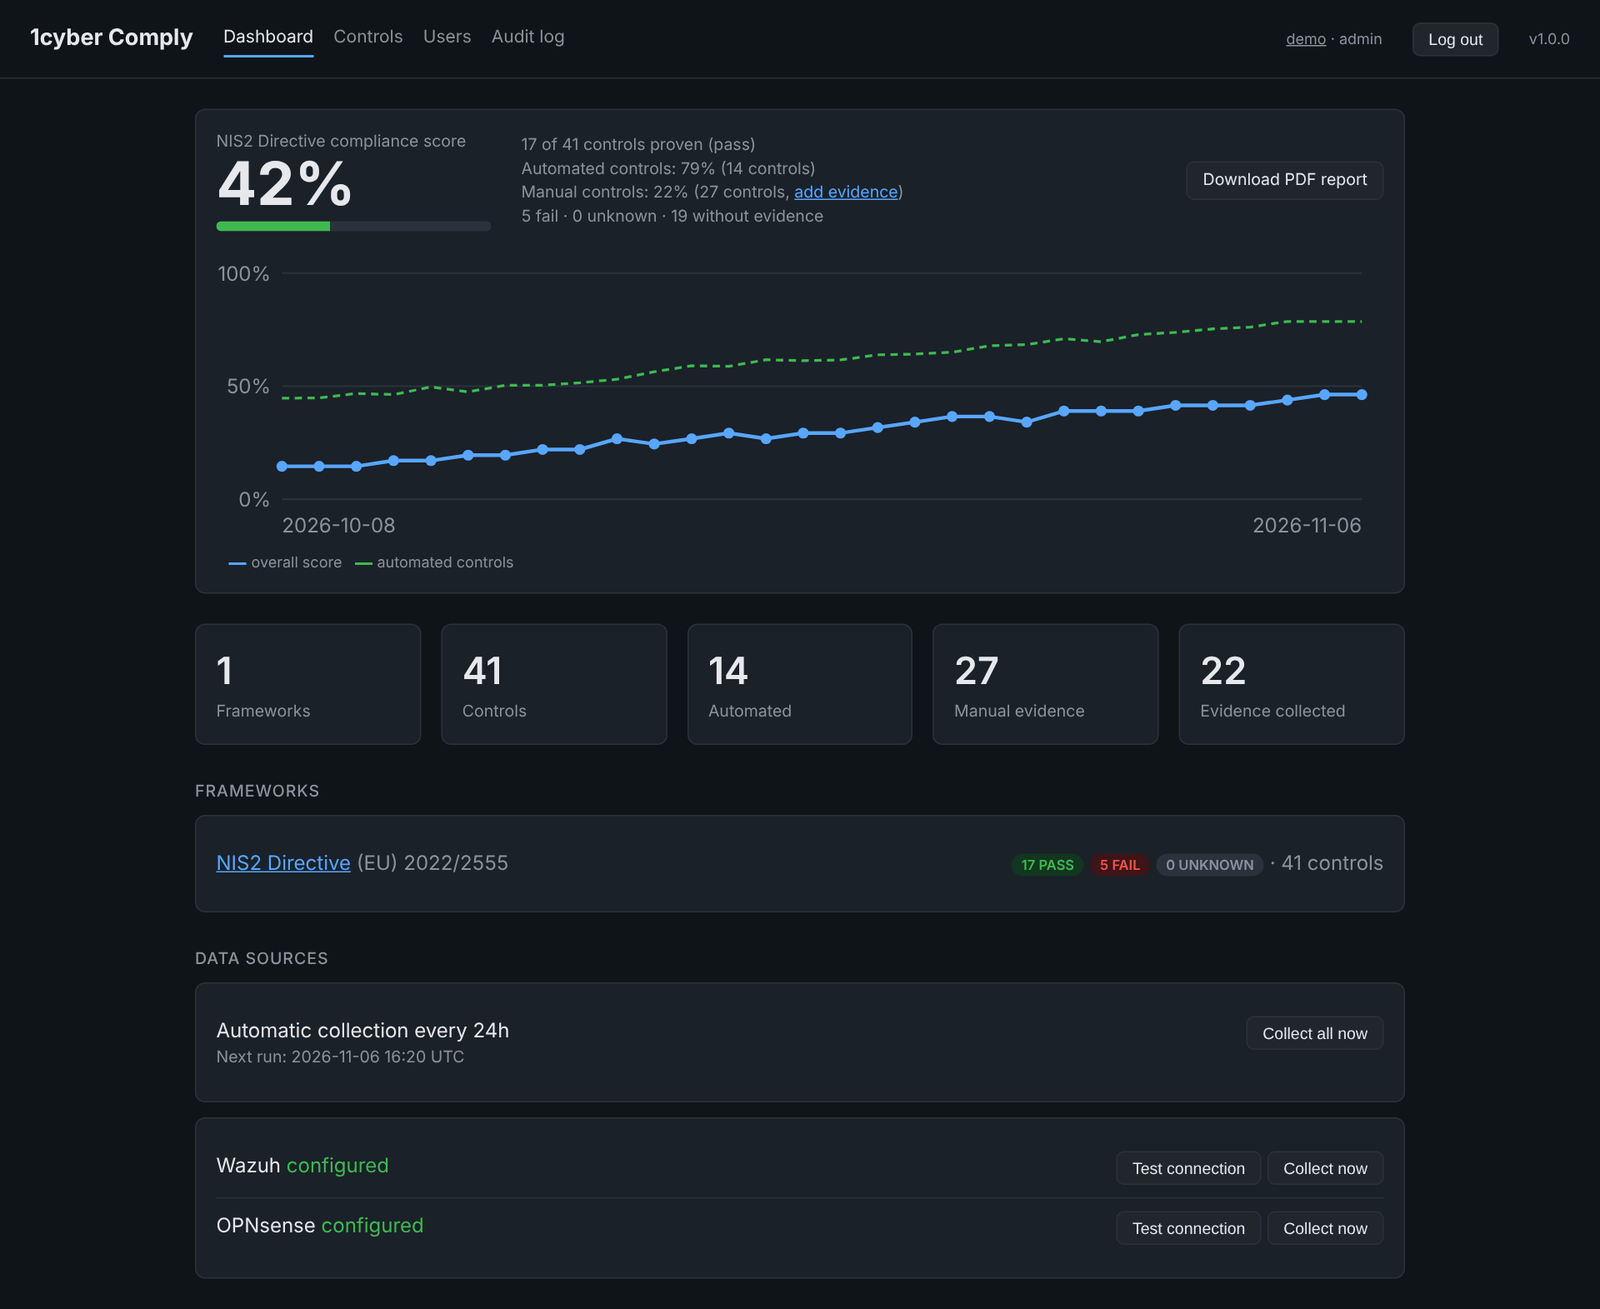
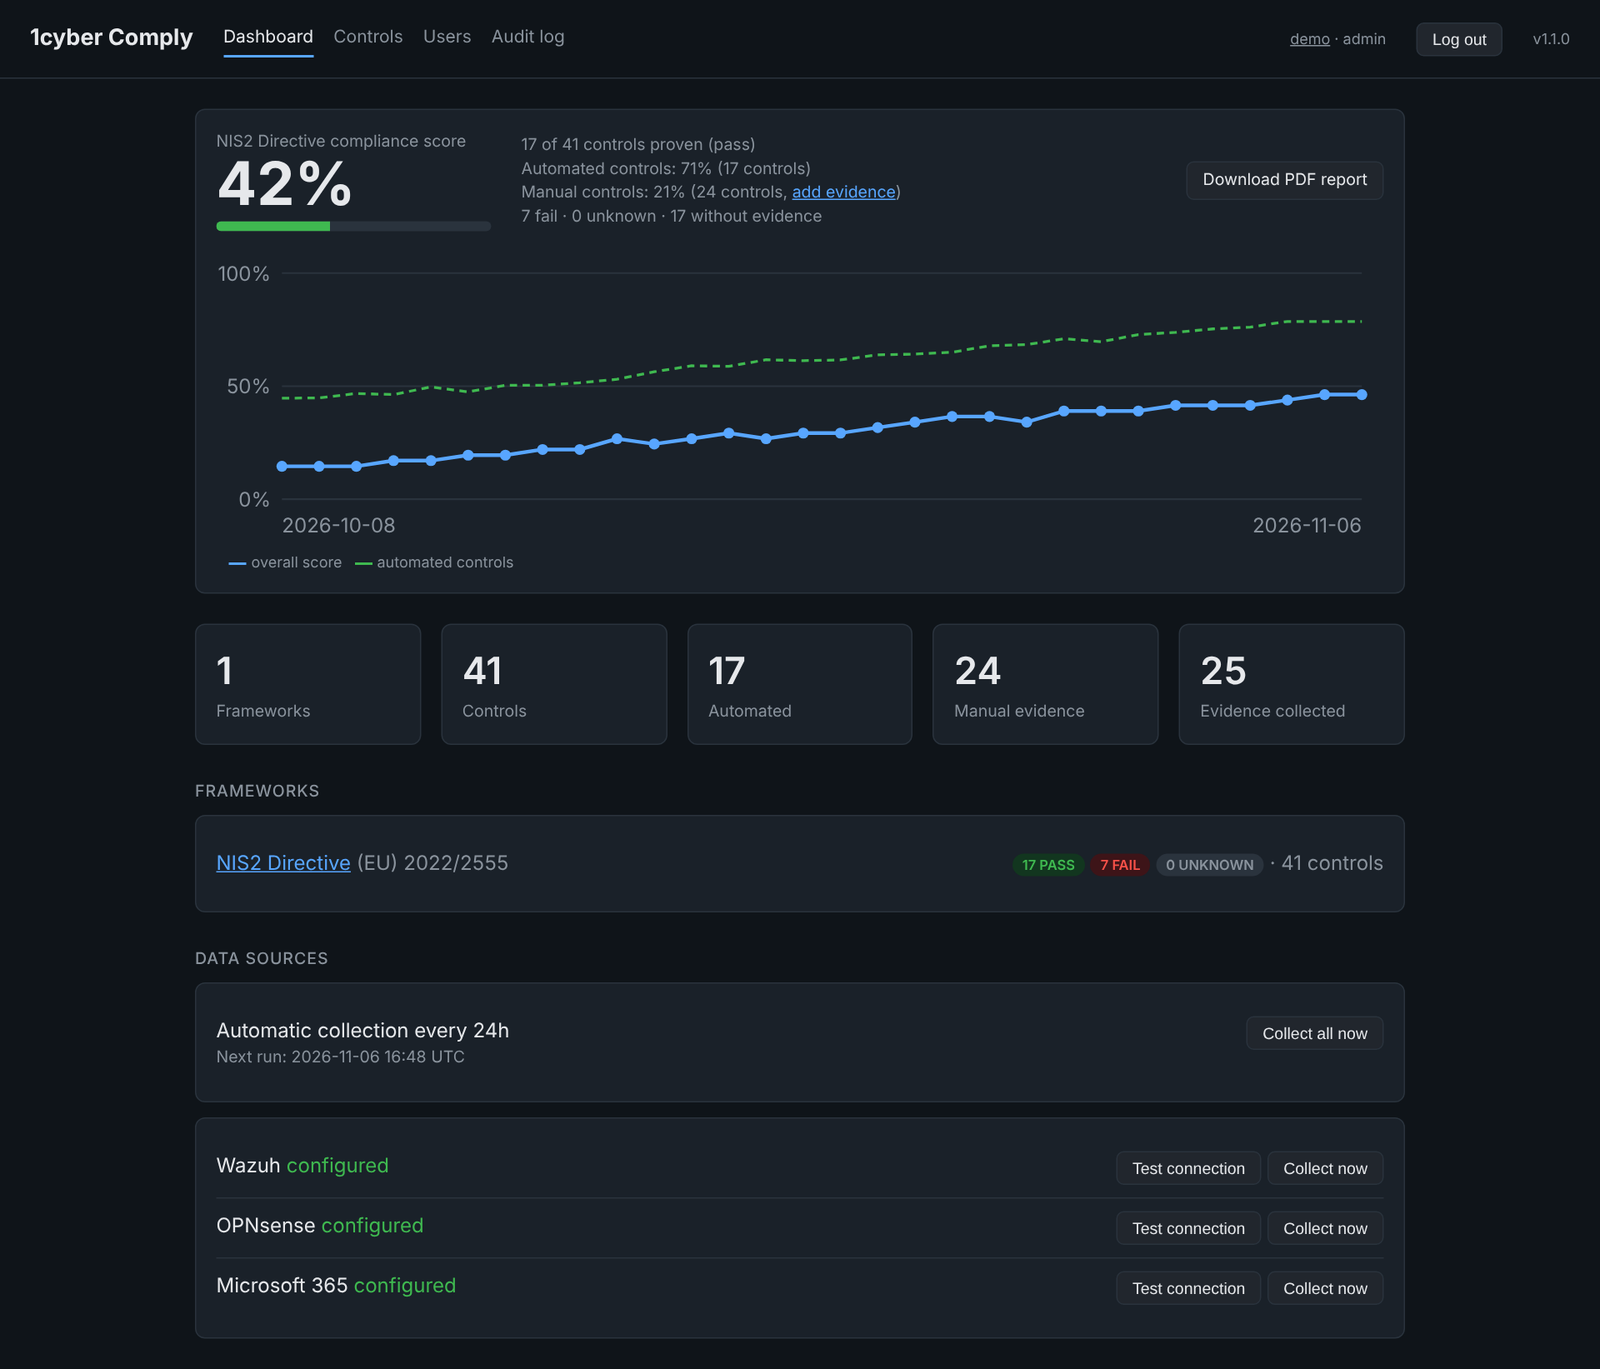
Screenshots and demo data include Microsoft 365
Claude-Session: https://claude.ai/code/session_01P1mpvWqe9zLt4bEXZLtymS

diff --git a/scripts/seed_demo.py b/scripts/seed_demo.py
@@ -52,6 +52,15 @@ evidence.save_results("opnsense", [
     CheckResult("webgui_https", "pass", "Web GUI uses HTTPS; plain HTTP redirects to HTTPS."),
     CheckResult("vlans", "pass", "4 VLAN(s) configured (tags: 10, 20, 30, 99)."),
 ])
+evidence.save_results("microsoft365", [
+    CheckResult("mfa", "fail", "MFA enforced (Conditional Access policy 'Require MFA for all users' requires MFA for "
+                "all users); 56/58 enabled accounts have MFA registered. Without MFA: reception@example.com, "
+                "warehouse@example.com."),
+    CheckResult("privileged_accounts", "pass", "5 accounts hold admin roles, 3 of them Global Administrator. "
+                "All admins have MFA registered."),
+    CheckResult("stale_accounts", "fail", "2 enabled accounts unused for 90+ days: m.georgiou@example.com (member), "
+                "auditor-2024@example.com (guest)."),
+])
 evidence.save_results("comply", [CheckResult("score_history", "pass",
                                              "Compliance is measured automatically every 24h (30 score snapshots recorded).")])
 
